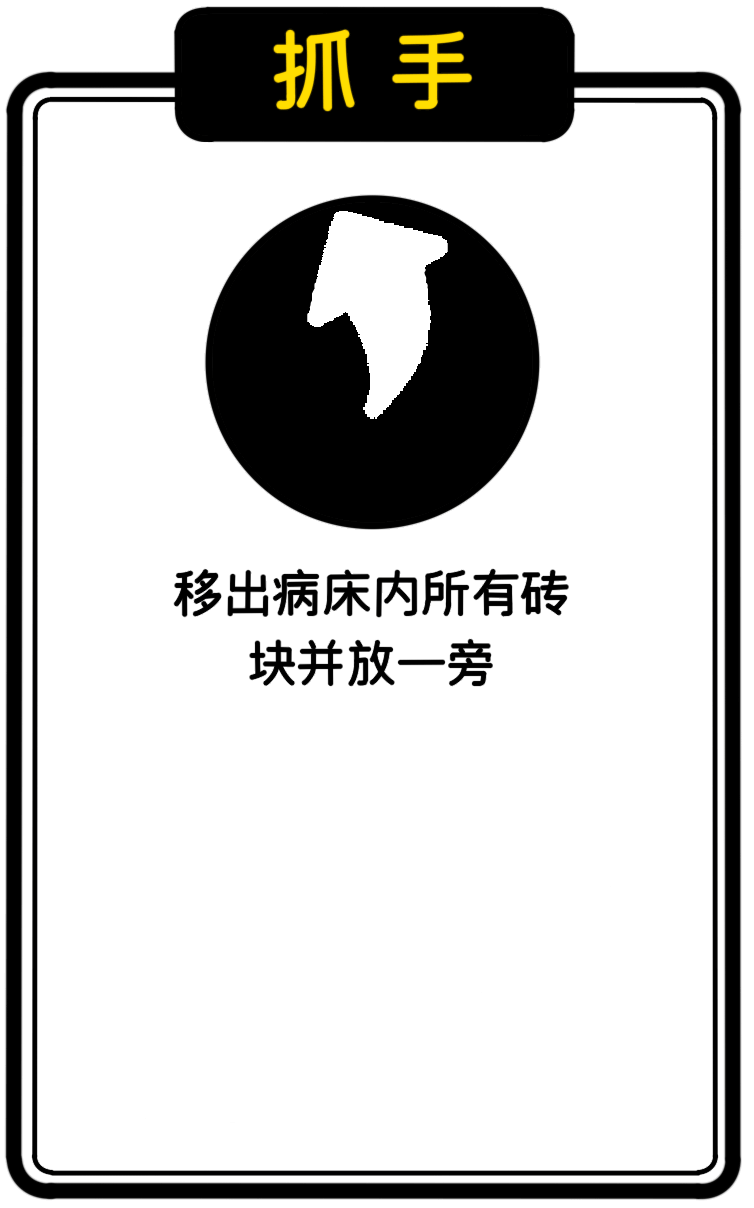
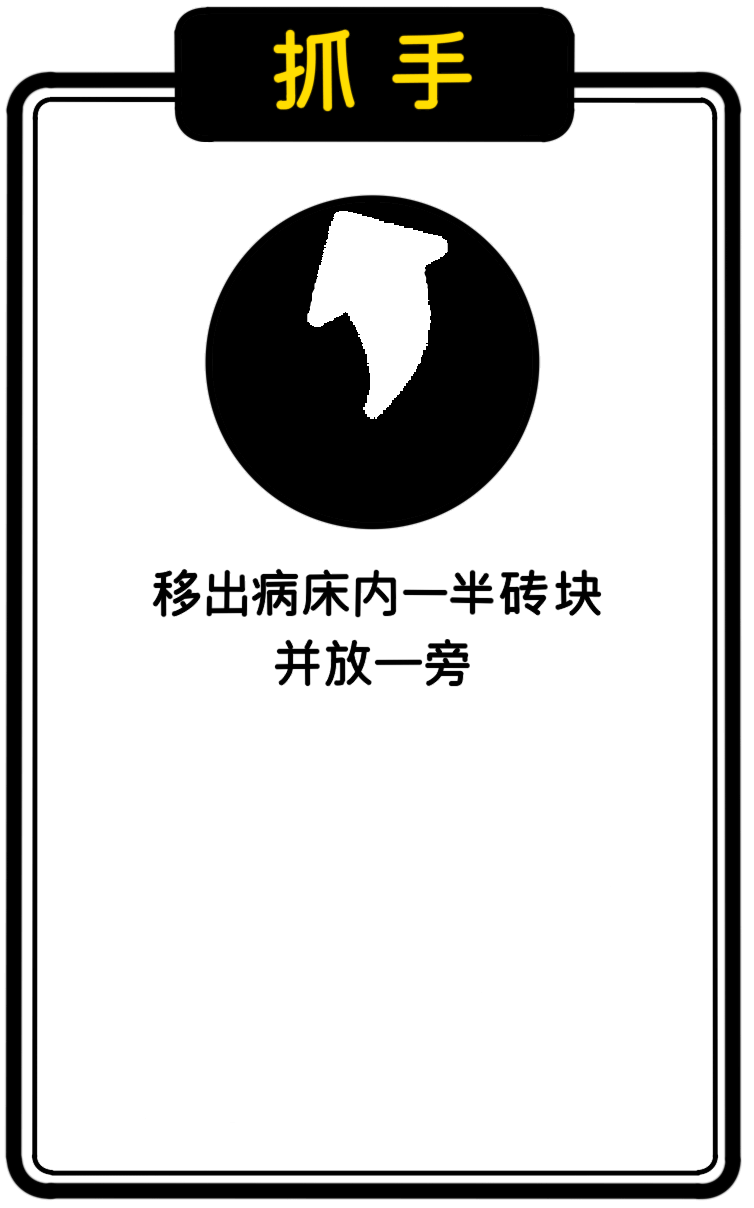
1.8.0 抽牌改为抽一半

Changed region(s): [[0.183, 0.4594, 0.7931, 0.582]]

diff --git a/assets/scripts/CardControl.ts b/assets/scripts/CardControl.ts
@@ -255,7 +255,7 @@ export class CardControl extends Component {
         if (this.node.active == false) return currentActive.onExtraCards();
 
         // let cards = this.extraCards(0, MAX_QUEUE);
-        let cards = this.extraCards(0, Math.ceil(this.WaitingCards.length));
+        let cards = this.extraCards(0, Math.ceil(this.WaitingCards.length / 2));
         for (let i = 0; i < cards.length; i++) {
             cards[i].extra();
         }
